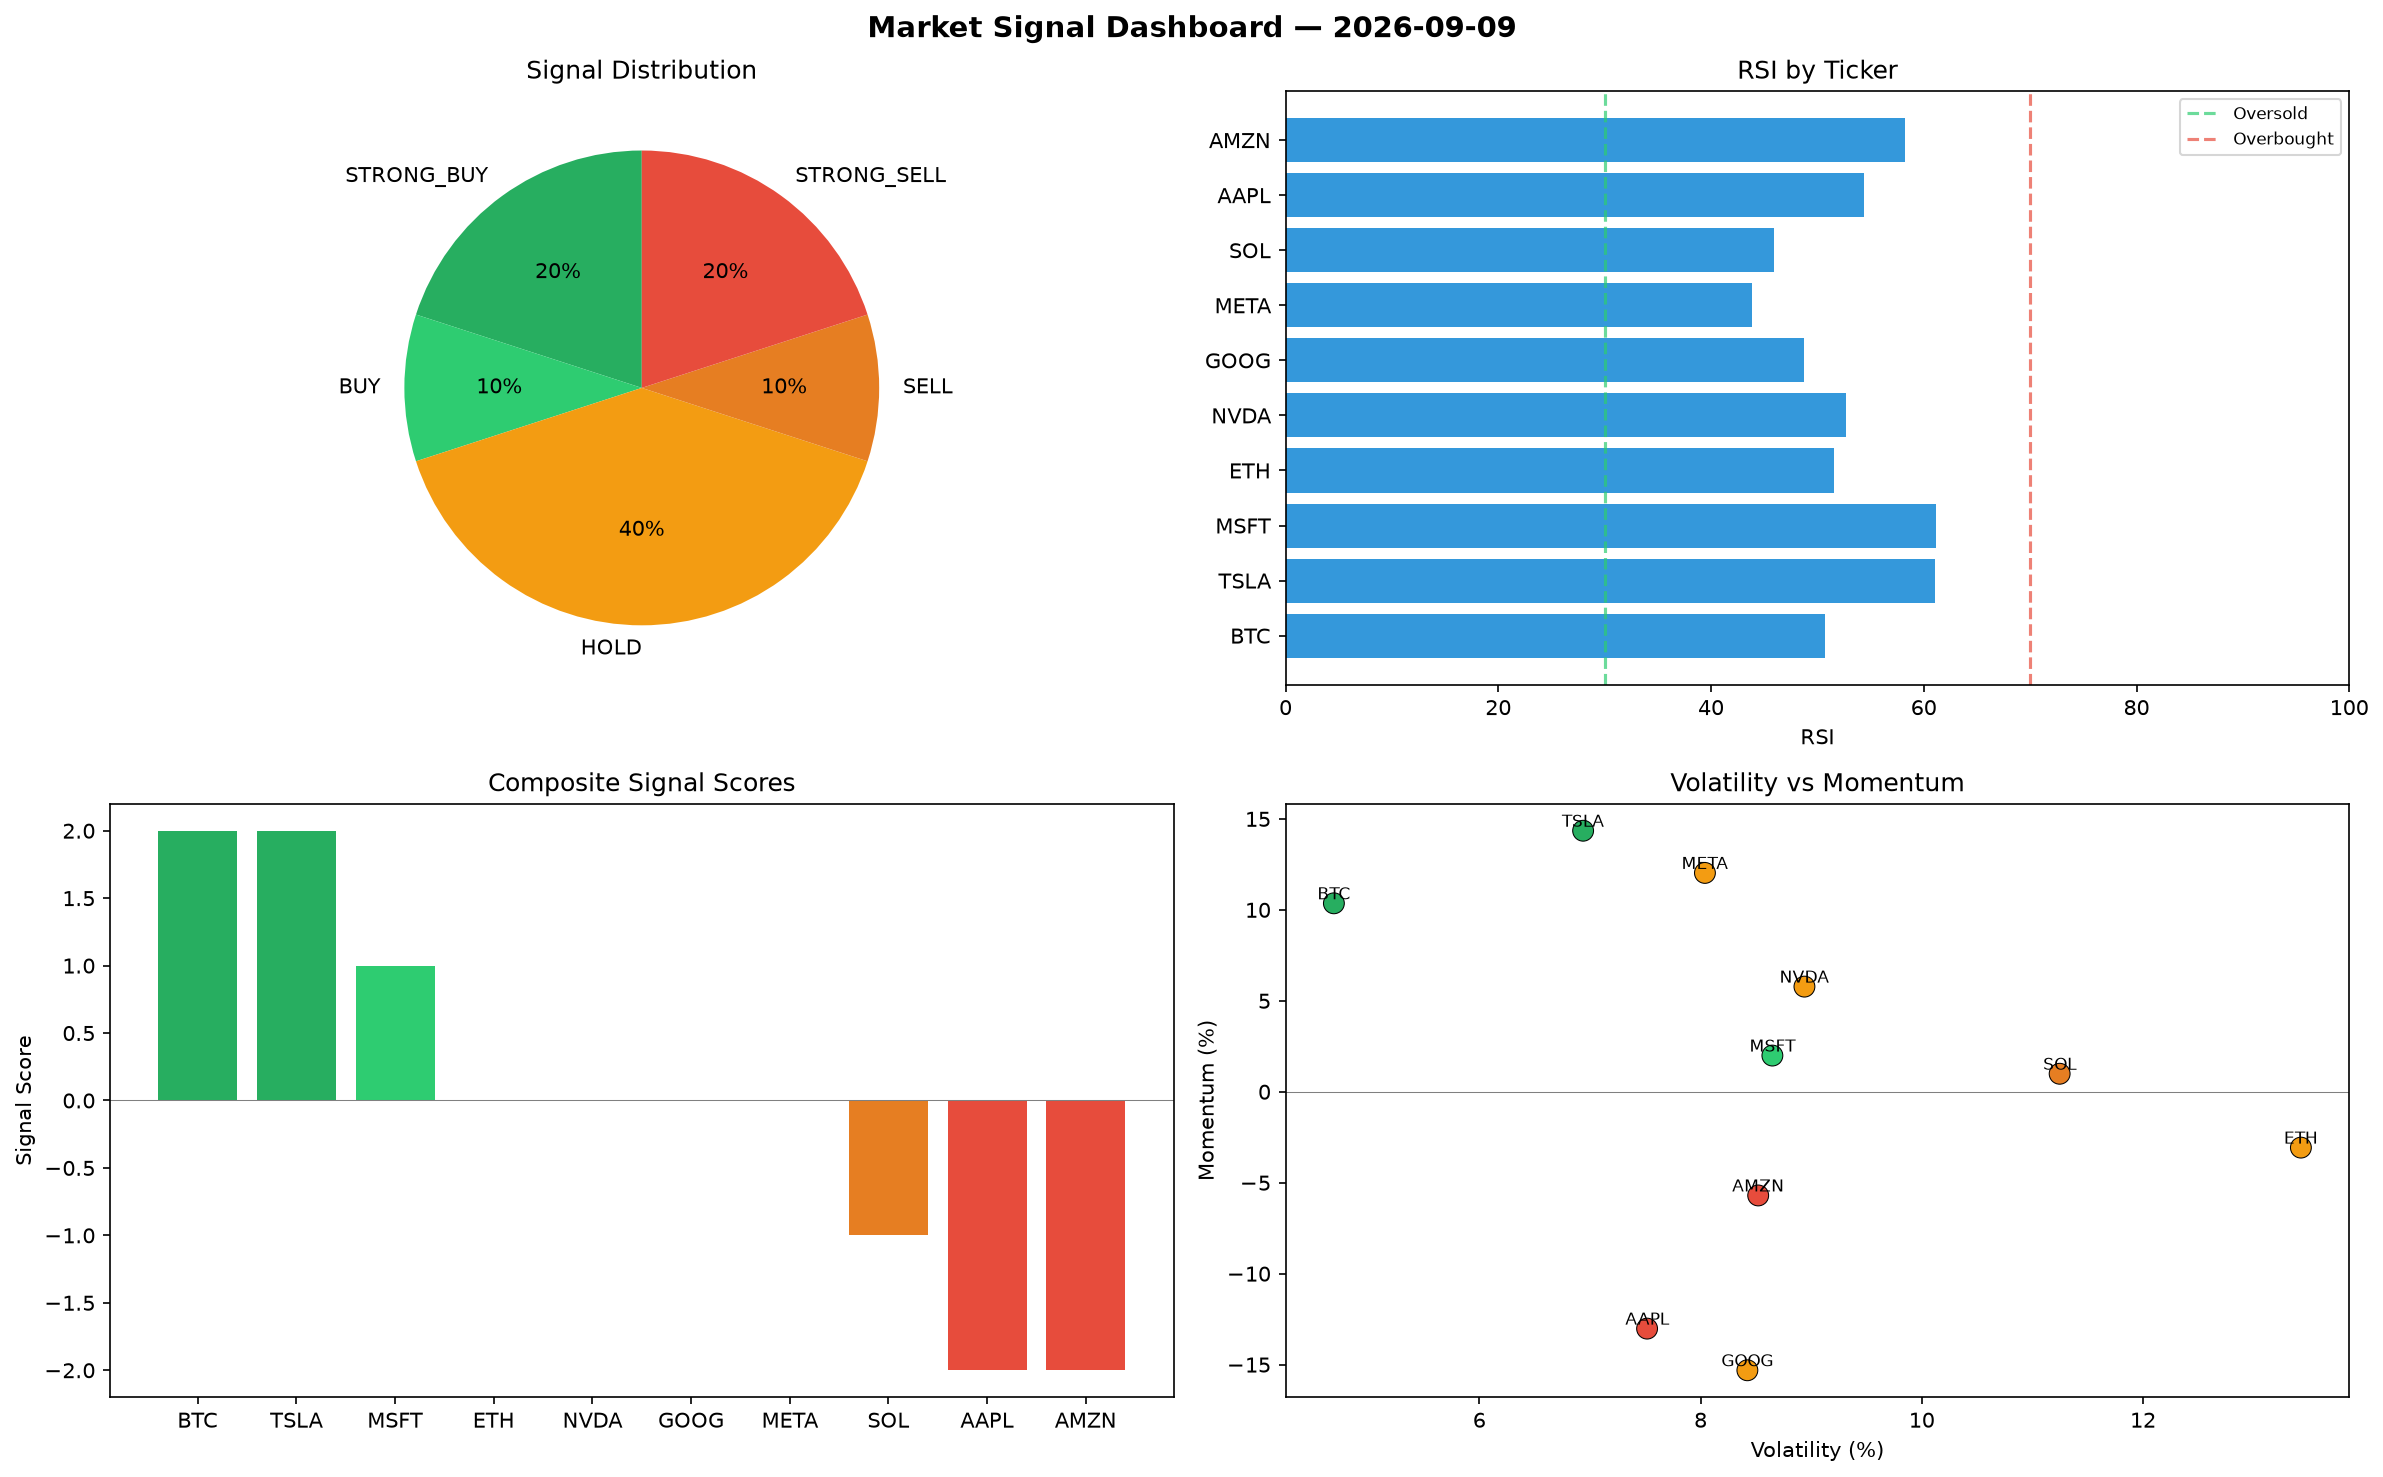
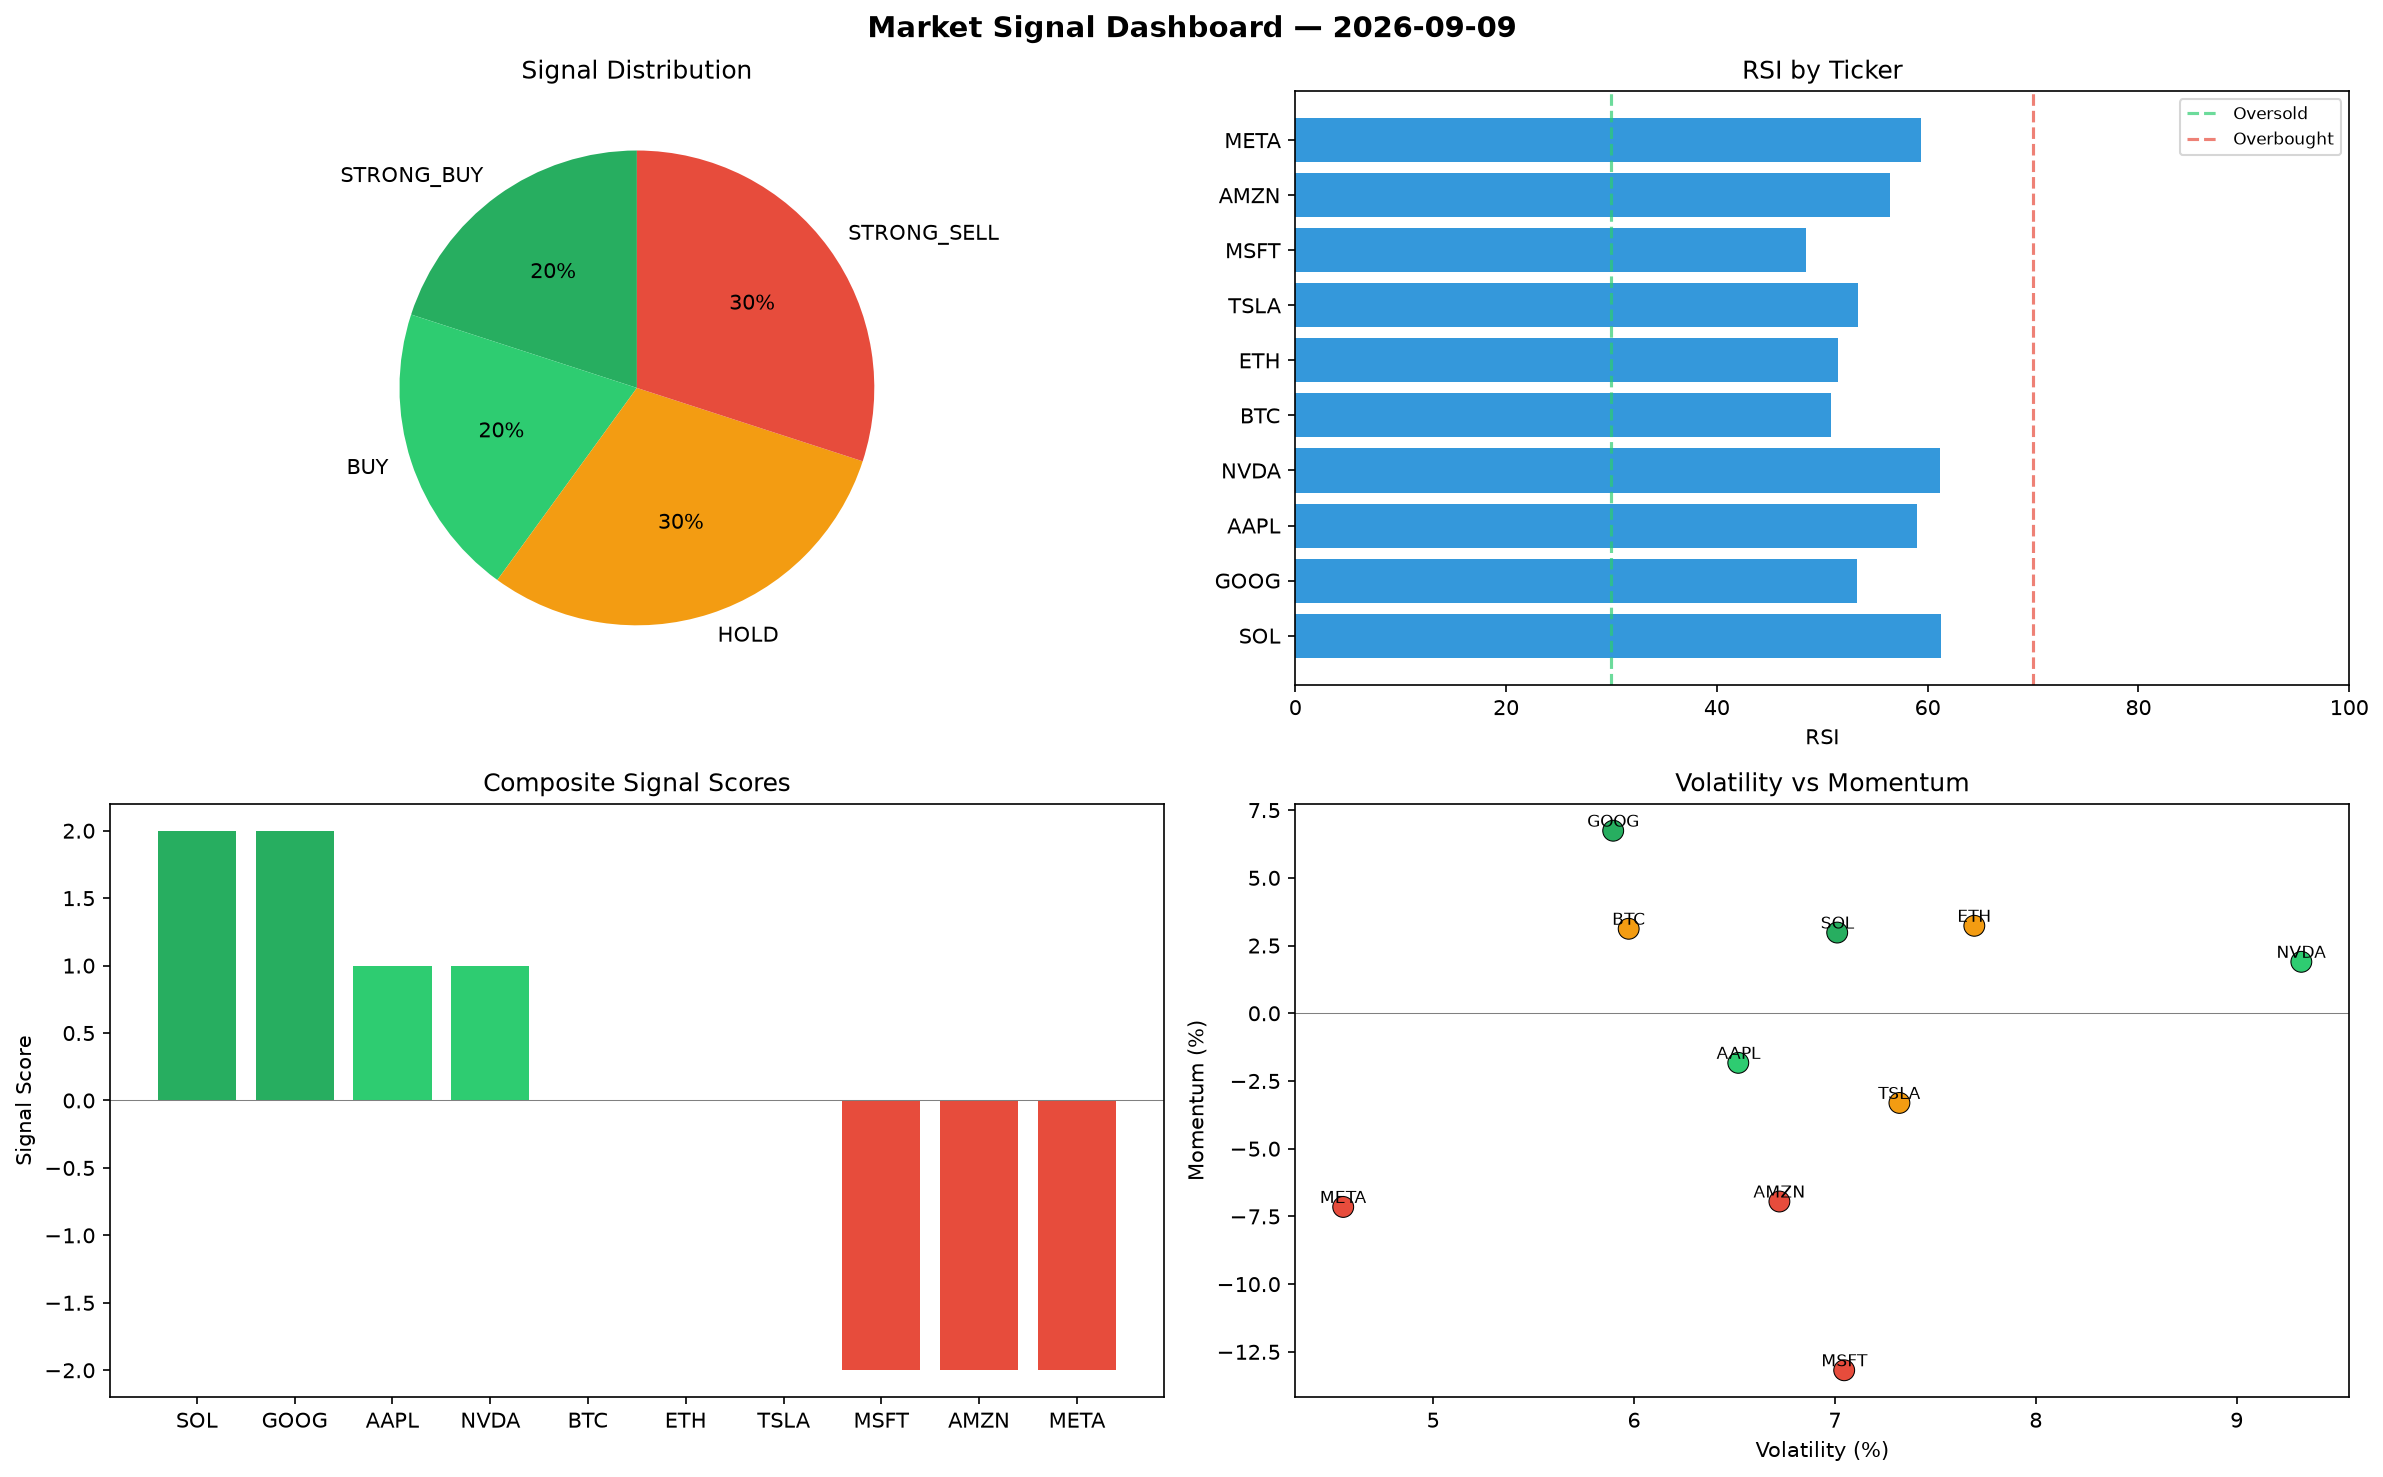
automated-bots: market signals 2026-09-09T13:03

diff --git a/logs/2026-09-09.md b/logs/2026-09-09.md
@@ -1,6 +1,6 @@
 # Market Signal Report — 2026-09-09
 
-**Run ID:** `ddecb91688` | **Buy:** 3 | **Sell:** 3 | **Hold:** 4
+**Run ID:** `3fcaae08fd` | **Buy:** 4 | **Sell:** 3 | **Hold:** 3
 
 ![Dashboard](2026-09-09_dashboard.png)
 
@@ -8,28 +8,28 @@
 
 | Ticker | Price | Signal | Score | RSI | Momentum | Confidence |
 |--------|-------|--------|-------|-----|----------|------------|
-| BTC | $3907.33 | **STRONG_BUY** | 2 | 50.67 | 0.1036 | 0.5 |
-| TSLA | $1295.17 | **STRONG_BUY** | 2 | 61.07 | 0.1435 | 0.5 |
-| MSFT | $4954.97 | **BUY** | 1 | 61.17 | 0.0199 | 0.25 |
-| ETH | $436.6 | **HOLD** | 0 | 51.53 | -0.0307 | 0.0 |
-| NVDA | $4565.7 | **HOLD** | 0 | 52.65 | 0.0578 | 0.0 |
-| GOOG | $1721.42 | **HOLD** | 0 | 48.76 | -0.1531 | 0.0 |
-| META | $4107.85 | **HOLD** | 0 | 43.88 | 0.1203 | 0.0 |
-| SOL | $1002.05 | **SELL** | -1 | 45.93 | 0.0099 | 0.25 |
-| AAPL | $2146.7 | **STRONG_SELL** | -2 | 54.36 | -0.1302 | 0.5 |
-| AMZN | $1287.16 | **STRONG_SELL** | -2 | 58.19 | -0.057 | 0.5 |
+| SOL | $378.6 | **STRONG_BUY** | 2 | 61.31 | 0.0298 | 0.5 |
+| GOOG | $3981.3 | **STRONG_BUY** | 2 | 53.25 | 0.0674 | 0.5 |
+| AAPL | $557.18 | **BUY** | 1 | 59.02 | -0.0183 | 0.25 |
+| NVDA | $1963.98 | **BUY** | 1 | 61.21 | 0.019 | 0.25 |
+| BTC | $322.94 | **HOLD** | 0 | 50.84 | 0.0312 | 0.0 |
+| ETH | $3438.46 | **HOLD** | 0 | 51.49 | 0.0323 | 0.0 |
+| TSLA | $3425.51 | **HOLD** | 0 | 53.39 | -0.0331 | 0.0 |
+| MSFT | $4008.98 | **STRONG_SELL** | -2 | 48.5 | -0.1318 | 0.5 |
+| AMZN | $3995.2 | **STRONG_SELL** | -2 | 56.45 | -0.0695 | 0.5 |
+| META | $4476.87 | **STRONG_SELL** | -2 | 59.41 | -0.0715 | 0.5 |
 
 ## Delta vs Yesterday
 
 | Ticker | Today | Yesterday | Price Change | Signal Changed |
 |--------|-------|-----------|-------------|----------------|
-| BTC | STRONG_BUY | HOLD | 📈 64.19% | ⚠ YES |
-| TSLA | STRONG_BUY | SELL | 📉 -26.82% | ⚠ YES |
-| MSFT | BUY | HOLD | 📈 1206.48% | ⚠ YES |
-| ETH | HOLD | STRONG_SELL | 📉 -79.71% | ⚠ YES |
-| NVDA | HOLD | BUY | 📈 502.53% | ⚠ YES |
-| GOOG | HOLD | STRONG_BUY | 📈 605.7% | ⚠ YES |
-| META | HOLD | BUY | 📈 9.13% | ⚠ YES |
-| SOL | SELL | STRONG_SELL | 📉 -60.66% | ⚠ YES |
-| AAPL | STRONG_SELL | STRONG_SELL | 📈 492.16% | — |
-| AMZN | STRONG_SELL | STRONG_BUY | 📈 461.29% | ⚠ YES |
+| SOL | STRONG_BUY | STRONG_SELL | 📉 -85.14% | ⚠ YES |
+| GOOG | STRONG_BUY | STRONG_BUY | 📈 1532.15% | — |
+| AAPL | BUY | STRONG_SELL | 📈 53.7% | ⚠ YES |
+| NVDA | BUY | BUY | 📈 159.19% | — |
+| BTC | HOLD | HOLD | 📉 -86.43% | — |
+| ETH | HOLD | STRONG_SELL | 📈 59.78% | ⚠ YES |
+| TSLA | HOLD | SELL | 📈 93.55% | ⚠ YES |
+| MSFT | STRONG_SELL | HOLD | 📈 957.05% | ⚠ YES |
+| AMZN | STRONG_SELL | STRONG_BUY | 📈 1642.19% | ⚠ YES |
+| META | STRONG_SELL | BUY | 📈 18.94% | ⚠ YES |
